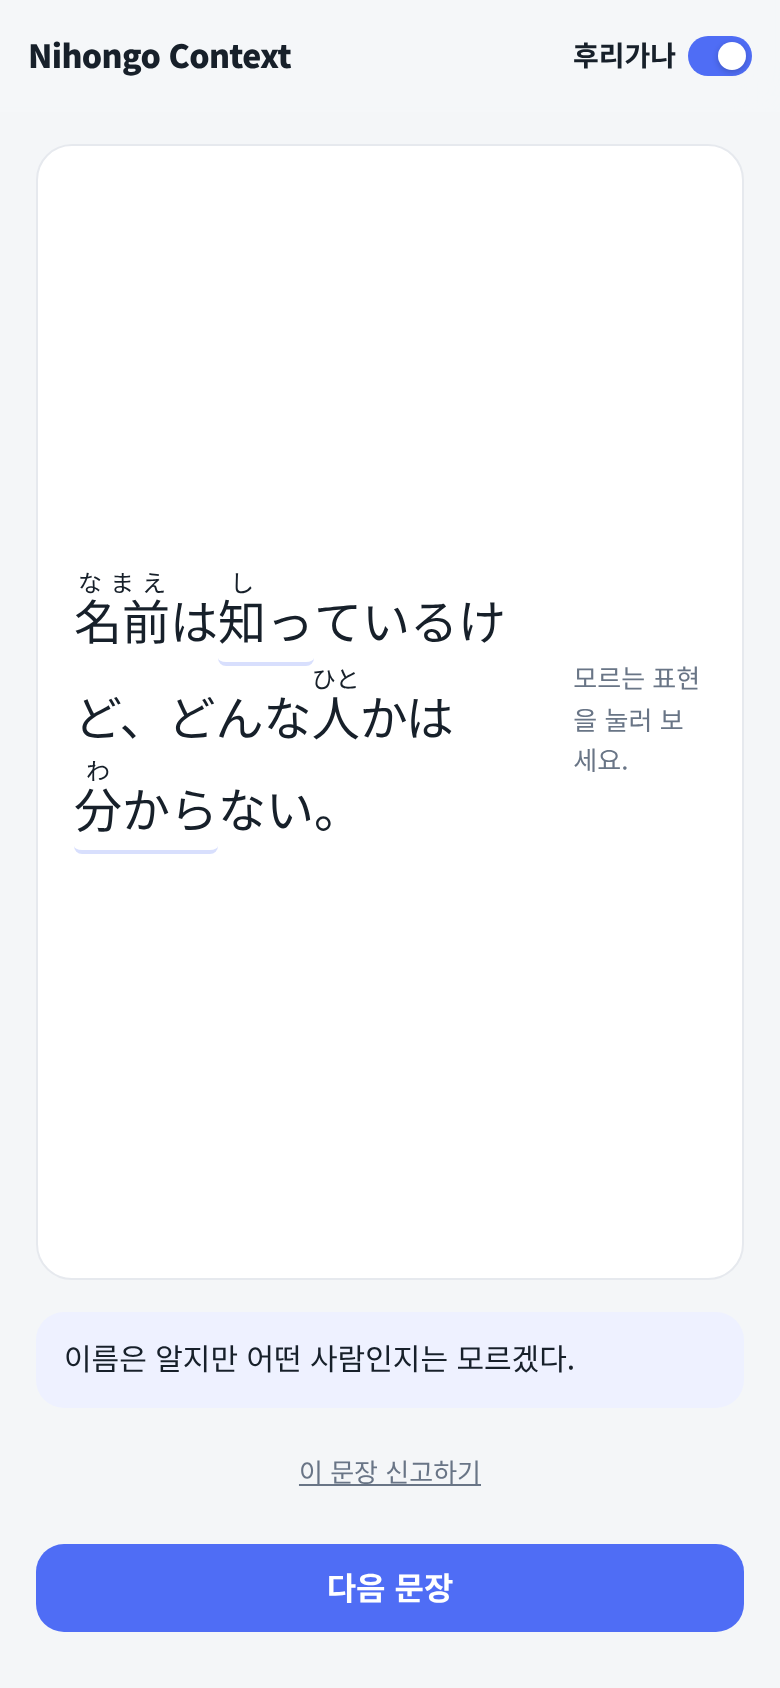
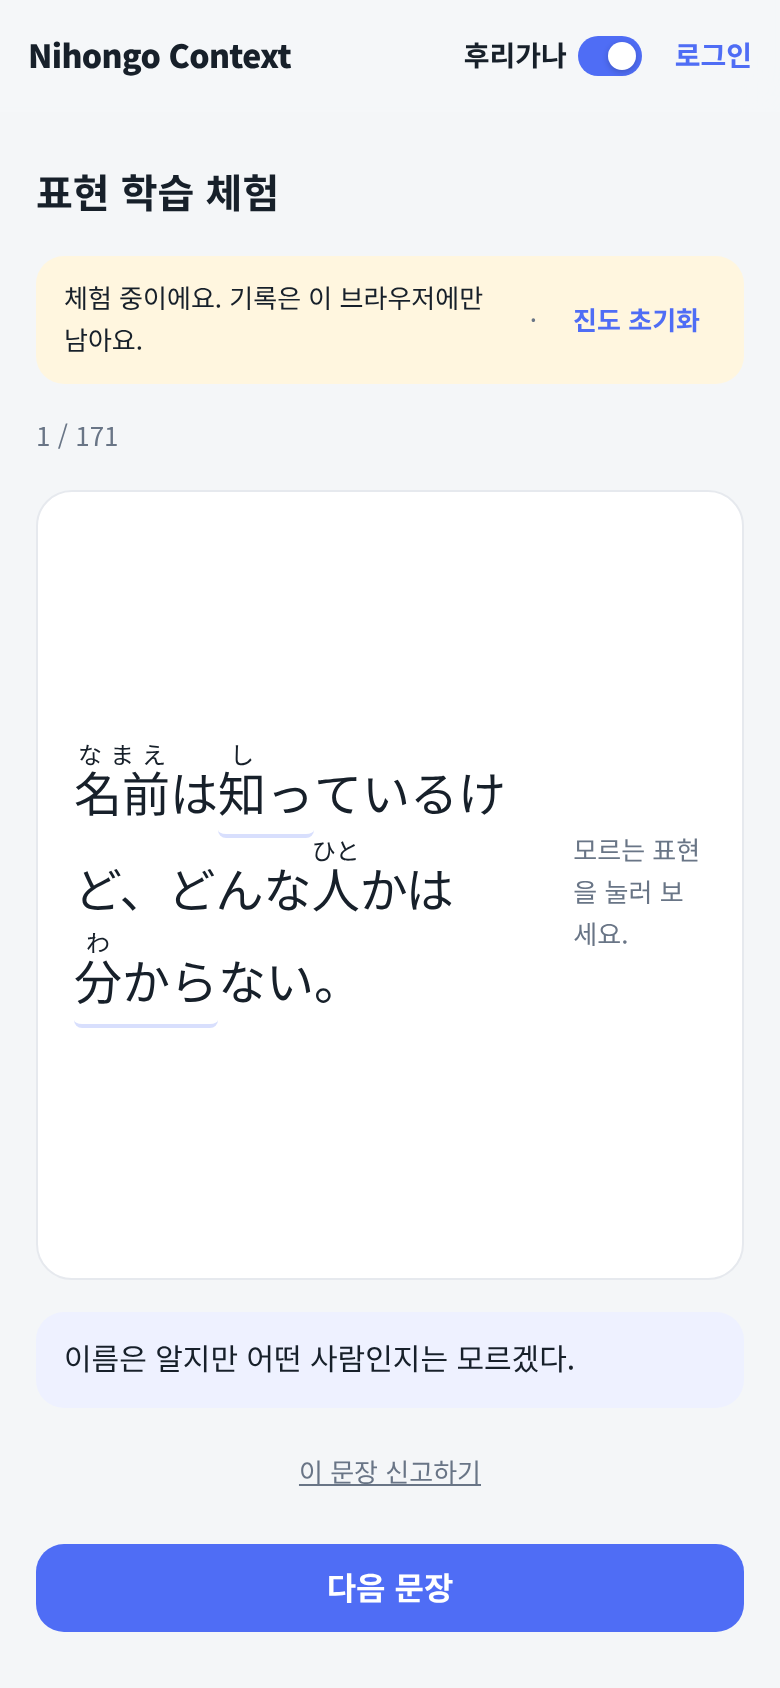
Nihongo Context page: restore original screenshots and copy, minus the word trial and owner-only wording
Claude-Session: https://claude.ai/code/session_015RcEmhiTXzsX84TqVGpdRG

diff --git a/app_nihongo.html b/app_nihongo.html
@@ -59,11 +59,11 @@
 
     <section class="detail-section" id="s1">
       <h2><span class="num">01</span><span data-lang="detail_common_a_s1">Why I built it</span></h2>
-      <p data-lang="detail_nihongo_overview">Textbook study and exam preparation did not get me closer to following everyday Japanese on YouTube. That takes recognising many words, grammar patterns and set phrases inside real sentences, and flashcards strip them out of the sentences they live in. Nihongo Context turns this around. You read a Japanese sentence with the translation hidden, tap only what you do not know, and read what that expression means in this sentence. The app then decides when the expression should come back and in which context, starting with the sentence where you first met it and moving on to sentences you have never seen. Alongside the sentences, it teaches hiragana and katakana with tables and quizzes.</p>
+      <p data-lang="detail_nihongo_overview">Textbook study and exam preparation did not get me closer to following everyday Japanese on YouTube. That takes recognising many words, grammar patterns and set phrases inside real sentences, and flashcards strip them out of the sentences they live in. Nihongo Context turns this around. You read a Japanese sentence with the translation hidden, tap only what you do not know, and read what that expression means in this sentence. The app then decides when the expression should come back and in which context, starting with the sentence where you first met it and moving on to sentences you have never seen. The same interaction also runs on 171 fixed sentences without logging in, next to hiragana and katakana practice.</p>
       <div class="findings">
         <div class="finding"><div class="k" data-lang="detail_nihongo_goal1_label">Context over cards</div><p data-lang="detail_nihongo_goal1_body">Every review shows an expression inside a sentence, and the context gets less familiar as the expression gets more familiar.</p></div>
         <div class="finding"><div class="k" data-lang="detail_nihongo_goal2_label">Never wait on a model</div><p data-lang="detail_nihongo_goal2_body">An LLM writes new sentences in the background. A tap is always answered from explanations that already exist.</p></div>
-        <div class="finding"><div class="k" data-lang="detail_nihongo_goal3_label">Nothing untrusted reaches the learner</div><p data-lang="detail_nihongo_goal3_body">Generated sentences pass deterministic checks before they are stored, and retried or duplicate answers are rejected instead of applied twice.</p></div>
+        <div class="finding"><div class="k" data-lang="detail_nihongo_goal3_label">Nothing untrusted reaches the learner</div><p data-lang="detail_nihongo_goal3_body">Generated sentences pass deterministic checks before they are stored, and stored browser state is validated before it is used.</p></div>
       </div>
     </section>
 
@@ -73,15 +73,15 @@
         <li data-lang="detail_nihongo_feature1">Sentence-first study: tap an expression to see its reading, dictionary form, core meaning, meaning in this sentence, nuance and an example, then optionally say whether you knew it.</li>
         <li data-lang="detail_nihongo_feature2">A 12-minute session that mixes review, new and exploration sentences at 70/20/10, and switches to a review-heavy mix when too many items are due.</li>
         <li data-lang="detail_nihongo_feature3">Review timing by FSRS, and review context by a ladder: the original sentence, a near-copy, then new sentences, stepping back after an explicit "didn't know".</li>
-        <li data-lang="detail_nihongo_feature4">A seed library of 200 expressions in 765 sentences, where every tappable expression ships with its explanation, so opening one never waits on a model.</li>
+        <li data-lang="detail_nihongo_feature4">A login-free mode with 171 fixed sentences covering all 200 seed expressions, using the same renderer and interaction code as the full study screen.</li>
         <li data-lang="detail_nihongo_feature5">Hiragana and katakana tables across seven ranges (263 entries) with two quiz modes, and a furigana toggle that places readings over kanji.</li>
-        <li data-lang="detail_nihongo_feature6">Study history per session and per expression, and a background worker that keeps the sentence pool topped up.</li>
+        <li data-lang="detail_nihongo_feature6">Login with Argon2id and a strict host-only session cookie, study history, and a background worker that keeps the sentence pool topped up.</li>
       </ul>
       <div class="shots">
-        <figure class="evidence" data-evidence="0"><figcaption data-lang="detail_nihongo_shot1">Tapping 知っ opens the explanation sheet: reading, dictionary form, meaning, meaning in this sentence, nuance and an example. Rating it is optional. The interface is in Korean because the app is built for Korean speakers learning Japanese.</figcaption></figure>
-        <figure class="evidence" data-evidence="1"><figcaption data-lang="detail_nihongo_shot2">Furigana on and translation revealed. The readings were computed when the sentence was saved, not when it is shown.</figcaption></figure>
-        <figure class="evidence" data-evidence="2"><figcaption data-lang="detail_nihongo_shot3">Hiragana table with seven ranges; each entry shows romaji and a Korean sound approximation.</figcaption></figure>
-        <figure class="evidence" data-evidence="3"><figcaption data-lang="detail_nihongo_shot4">Katakana loanwords: a word list with romaji and Korean meanings.</figcaption></figure>
+        <figure class="evidence" data-evidence="0"><figcaption data-lang="detail_nihongo_shot1">Home: choose between expression learning and kana practice. The interface is in Korean because the app is built for Korean speakers learning Japanese.</figcaption></figure>
+        <figure class="evidence" data-evidence="1"><figcaption data-lang="detail_nihongo_shot2">Tapping 知っ opens the explanation sheet: reading, dictionary form, meaning, meaning in this sentence, nuance and an example. Rating it is optional.</figcaption></figure>
+        <figure class="evidence" data-evidence="2"><figcaption data-lang="detail_nihongo_shot3">Furigana on and translation revealed. The readings were computed when the sentence was saved, not when it is shown.</figcaption></figure>
+        <figure class="evidence" data-evidence="3"><figcaption data-lang="detail_nihongo_shot4">Hiragana table with seven ranges; each entry shows romaji and a Korean sound approximation.</figcaption></figure>
         <figure class="evidence" data-evidence="4"><figcaption data-lang="detail_nihongo_shot5">Kana quiz, choose-the-romaji mode. Missed characters come back once at the end of the round.</figcaption></figure>
         <figure class="evidence" data-evidence="5"><figcaption data-lang="detail_nihongo_shot6">Kana quiz, read-aloud mode: reveal the answer, then mark yourself right or wrong.</figcaption></figure>
       </div>
@@ -89,9 +89,9 @@
 
     <section class="detail-section" id="s3">
       <h2><span class="num">03</span><span data-lang="detail_common_a_s3">How it works</span></h2>
-      <p data-lang="detail_nihongo_arch_body">The system has four parts with strict boundaries. The frontend is static TypeScript on Cloudflare, and kana practice runs entirely in the browser. Study goes to a FastAPI service reached through a Cloudflare Tunnel, which reads and writes learning state in PostgreSQL and picks the next sentence. It never talks to the LLM. A separate worker claims jobs from a PostgreSQL table, asks the LLM for batches of sentences with explanations, validates them, adds furigana with a morphological analyzer, and stores them. The API, the worker and PostgreSQL run in Docker Compose on one host, with the database bound to localhost.</p>
+      <p data-lang="detail_nihongo_arch_body">The system has four parts with strict boundaries. The frontend is static TypeScript on Cloudflare; the home, login-free study and kana screens run entirely on data bundled into it and make no API calls. Logged-in study goes to a FastAPI service reached through a Cloudflare Tunnel, which reads and writes learning state in PostgreSQL and picks the next sentence. It never talks to the LLM. A separate worker claims jobs from a PostgreSQL table, asks the LLM for batches of sentences with explanations, validates them, adds furigana with a morphological analyzer, and stores them. The API, the worker and PostgreSQL run in Docker Compose on one host, with the database bound to localhost.</p>
       <figure class="diagram" data-illus="nihongo.arch" role="img" aria-label="Browser, static hosting, FastAPI, PostgreSQL, worker and LLM, with the API never calling the LLM.">
-        <figcaption data-lang="detail_nihongo_fig_arch">The request path (browser, API, PostgreSQL) never waits on the LLM. Generation happens ahead of time in the worker.</figcaption>
+        <figcaption data-lang="detail_nihongo_fig_arch">The request path (browser, API, PostgreSQL) never waits on the LLM. Generation happens in the worker, and the public screens do not use the API at all.</figcaption>
       </figure>
       <div class="flow">
         <div class="step"><i>1</i><b data-lang="detail_nihongo_pipeline_step1_title">Read</b><span data-lang="detail_nihongo_pipeline_step1">The learner sees a Japanese sentence with the translation hidden. Tappable expressions already carry their explanations.</span></div>
@@ -108,9 +108,9 @@
         <div class="highlight"><b data-lang="detail_nihongo_hl1_title">Separating when from which context</b><p data-lang="detail_nihongo_hl1_body">FSRS answers when an expression is due; a context ladder (anchor, near-original, varied, new context) answers which sentence shows it. The ladder climbs after each exposure and drops one step only on an explicit "didn't know", which also schedules a context repair. Reinforcement tops exposures up to five meaningful ones without shortening FSRS intervals, and a review with no answer neither rates FSRS nor loops.</p></div>
         <div class="highlight"><b data-lang="detail_nihongo_hl2_title">LLM output treated as untrusted input</b><p data-lang="detail_nihongo_hl2_body">The model never sees database IDs, only request-local labels that the worker maps back. One strict-schema call returns sentences, translations, spans and full explanations. Thirteen deterministic checks (span bounds and overlap, surface match, length, required explanations, exact and near-duplicate detection at 0.90 similarity, unknown references) run before anything is written, and each rejection keeps a reason code.</p></div>
         <div class="highlight"><b data-lang="detail_nihongo_hl3_title">A job queue inside PostgreSQL</b><p data-lang="detail_nihongo_hl3_body">No Redis or Celery. Jobs are rows claimed with FOR UPDATE SKIP LOCKED, with a 300 s lease for crashed workers, retries with backoff, idempotency keys and a closed set of dead-letter reasons. The provider call happens outside any database transaction, and daily request and token ceilings are checked before a job is claimed, so a limit never burns retries.</p></div>
-        <div class="highlight"><b data-lang="detail_nihongo_hl4_title">Furigana at save time, not request time</b><p data-lang="detail_nihongo_hl4_body">A morphological analyzer adds about 200 MB to an image and gets common context-dependent readings wrong. It runs only in the worker when a sentence is saved: readings align to kanji runs, never cross a tappable span, prefer the reading from the item's own explanation, and fall back to a small table of context rules. The API just slices the stored ruby. On a 171-sentence set: 171 computed, 0 failures, 0 reading mismatches.</p></div>
-        <div class="highlight"><b data-lang="detail_nihongo_hl5_title">Operations built for one host</b><p data-lang="detail_nihongo_hl5_body">Migrations run only after a verified backup, and there is no downgrade path: rollback means restore. A restore drill rebuilds the database in a scratch copy, compares it with the source and exercises real reads before dropping it. The worker writes heartbeats in a separate session so a rolled-back job still proves liveness, the health endpoint flags a worker silent for 120 s, and the worker refuses to boot without its analyzer, provider key or active prompt versions.</p></div>
-        <div class="highlight"><b data-lang="detail_nihongo_hl6_title">Correct under retries and double taps</b><p data-lang="detail_nihongo_hl6_body">One piece of evidence per exposure is enforced by a unique index, so a retried self-report gets 409 and cannot run the mastery update or the FSRS step twice. A partial unique index allows one open presentation per session, FSRS rows are locked while they change, and server-issued events carry deterministic UUIDv5 idempotency keys.</p></div>
+        <div class="highlight"><b data-lang="detail_nihongo_hl4_title">Furigana at save time, not request time</b><p data-lang="detail_nihongo_hl4_body">A morphological analyzer adds about 200 MB to an image and gets common context-dependent readings wrong. It runs only in the worker when a sentence is saved: readings align to kanji runs, never cross a tappable span, prefer the reading from the item's own explanation, and fall back to a small table of context rules. The API just slices the stored ruby. On the 171 login-free sentences: 171 computed, 0 failures, 0 reading mismatches.</p></div>
+        <div class="highlight"><b data-lang="detail_nihongo_hl5_title">Login-free screens that cannot reach the API</b><p data-lang="detail_nihongo_hl5_body">The login-free mode reuses the real renderer and interaction controller, with network operations swapped for a generated fixture in the API's payload shape. Isolation is enforced three ways: a TypeScript AST import-graph test bans API modules from public screens, a build check scans the bundle, and a Playwright test runs the screens with no API. Stored progress is validated as untrusted input on load.</p></div>
+        <div class="highlight"><b data-lang="detail_nihongo_hl6_title">Correct under retries and double taps</b><p data-lang="detail_nihongo_hl6_body">One piece of evidence per exposure is enforced by a unique index, so a retried self-report gets 409 and cannot run the mastery update or the FSRS step twice. A partial unique index allows one open presentation per session, FSRS rows are locked while they change, and a boot-time audit refuses to start if any route outside a two-entry allowlist is reachable without authentication.</p></div>
       </div>
     </section>
 
@@ -119,13 +119,13 @@
       <div class="statrow">
         <div class="stat"><div class="v" data-lang="detail_nihongo_stat1_value">1,273</div><div class="l" data-lang="detail_nihongo_stat1_label">backend unit and integration tests, run against a real PostgreSQL 16</div></div>
         <div class="stat"><div class="v" data-lang="detail_nihongo_stat2_value">750</div><div class="l" data-lang="detail_nihongo_stat2_label">frontend unit tests, including import-graph and bundle checks</div></div>
-        <div class="stat"><div class="v" data-lang="detail_nihongo_stat3_value">55</div><div class="l" data-lang="detail_nihongo_stat3_label">end-to-end tests in real Chrome covering study, kana and furigana</div></div>
-        <div class="stat"><div class="v" data-lang="detail_nihongo_stat4_value">13</div><div class="l" data-lang="detail_nihongo_stat4_label">deterministic checks every generated sentence passes before it is stored</div></div>
+        <div class="stat"><div class="v" data-lang="detail_nihongo_stat3_value">55</div><div class="l" data-lang="detail_nihongo_stat3_label">end-to-end tests in real Chrome covering study, login-free mode, kana and furigana</div></div>
+        <div class="stat"><div class="v" data-lang="detail_nihongo_stat4_value">0</div><div class="l" data-lang="detail_nihongo_stat4_label">API calls from the login-free screens, checked on the live site</div></div>
       </div>
       <ul>
         <li data-lang="detail_nihongo_quality1">mypy in strict mode and ruff report no issues across 176 Python files, and the frontend type-checks with tsc --noEmit.</li>
         <li data-lang="detail_nihongo_quality2">Architecture rules are tests: 14 import and write guards keep the LLM SDK out of the API process, FSRS writes inside the scheduling module, and commits inside allowlisted functions.</li>
-        <li data-lang="detail_nihongo_quality3">Time is injected everywhere, so scheduling, deferral and lease rules are tested deterministically instead of against the wall clock.</li>
+        <li data-lang="detail_nihongo_quality3">Operations are rehearsed: migrations run only after a verified backup, and a restore check rebuilds the database in a scratch copy and exercises login and history before dropping it.</li>
       </ul>
     </section>
 
@@ -133,13 +133,13 @@
       <h2><span class="num">06</span><span data-lang="detail_common_a_s6">Decisions &amp; trade-offs</span></h2>
       <ul>
         <li data-lang="detail_nihongo_design_item1">PostgreSQL as the job queue instead of Redis. One host means one datastore to back up; SKIP LOCKED and leases give enough concurrency for one worker pool, at the cost of polling.</li>
-        <li data-lang="detail_nihongo_design_item2">No UI framework on the frontend. Plain DOM with textContent only keeps the bundle small, and made it possible to enforce module boundaries with an import-graph test.</li>
+        <li data-lang="detail_nihongo_design_item2">No UI framework on the frontend. Plain DOM with textContent only keeps the bundle small, and made it possible to prove with an import-graph test which screens can reach the API.</li>
         <li data-lang="detail_nihongo_design_item3">No corrections to self-reports. Undoing a mastery or FSRS step needs history that is not stored, so a second answer is rejected rather than half-applied.</li>
         <li data-lang="detail_nihongo_design_item4">Explanations generated together with each sentence, not on tap. Batches spend more tokens up front, but a tap never waits on a model and every explanation is validated before a learner sees it.</li>
       </ul>
       <div class="takeaway">
         <b data-lang="detail_common_a_retro">Looking back</b>
-        <span data-lang="detail_nihongo_takeaway">The product idea is simple; the work was in the boundaries. Deciding that the model never sits in a request, that its output is validated like user input, and that every rule about which code may touch what is a test, is what let a learning engine, an LLM pipeline and a static frontend live in one codebase without stepping on each other.</span>
+        <span data-lang="detail_nihongo_takeaway">The product idea is simple; the work was in the boundaries. Deciding that the model never sits in a request, that its output is validated like user input, and that every rule about which code may touch what is a test, is what let a learning engine, an LLM pipeline and a login-free mode live in one codebase without stepping on each other.</span>
       </div>
     </section>
 

diff --git a/assets/js/scenes/nihongo.js b/assets/js/scenes/nihongo.js
@@ -51,7 +51,7 @@
     I.isoPhone(s, p(0, 10, 0), { w: 38 * k, d: 58 * k, h: 5 * k });
     var phoneTop = p(19, 39, 5);
 
-    /* ---- plain request path: browser -> API -------------------------------- */
+    /* ---- plain request path: browser -> API (logged-in study only) ------ */
     var ph = p(38, 36, 8), ap = p(66, 30, SH + 10);
     I.arrow(s, ph[0] + 2 * k, ph[1], ap[0] - 2 * k, ap[1], { color: t.slate, width: 1.2 });
 
@@ -71,7 +71,7 @@
     if (!hero) return;
 
     I.leader(s, phoneTop[0] - 30 * k, phoneTop[1] - 50 * k, phoneTop[0], phoneTop[1] - 2,
-      'browser · static TypeScript frontend', { anchor: 'end' });
+      'browser · login-free screens need no server', { anchor: 'end' });
     var mid = [(wkTop[0] + llmFoot[0]) / 2, (wkTop[1] + llmFoot[1]) / 2 - 3 * k];
     I.leader(s, mid[0] - 50 * k, mid[1] - 34 * k, mid[0] - 2, mid[1],
       'sentences generated ahead of time', { anchor: 'end', accent: true });
@@ -85,17 +85,17 @@
 
   function hero(s, ctx) { stage(s, ctx); }
   hero.kind = 'hero';
-  hero.aria = 'Isometric view of Nihongo Context: a browser talks to the API for study, while a background worker asks an LLM for new study sentences ahead of time and stores them, with their review schedule and furigana, in PostgreSQL.';
+  hero.aria = 'Isometric view of Nihongo Context: a browser uses the API only for logged-in study, while a background worker asks an LLM for new study sentences ahead of time and stores them, with their review schedule and furigana, in PostgreSQL.';
 
   /* ---------------------------------------------------------- s3: arch */
   function arch(s, ctx) {
     var t = ctx.tokens;
 
-    I.box(s, 24, 40, 176, 62, { label: 'browser', sub: 'static TypeScript' });
+    I.box(s, 24, 40, 176, 62, { label: 'browser', sub: 'login-free: 0 API calls' });
     I.arrow(s, 112, 102, 112, 150, { both: true, label: 'HTML / JS', labelDx: 8, labelAnchor: 'start', labelDy: 4 });
     I.box(s, 24, 150, 176, 52, { label: 'static hosting', sub: 'Cloudflare' });
 
-    I.arrow(s, 200, 71, 272, 71, { dashed: true, label: 'study API', labelDy: -8, size: 9.5 });
+    I.arrow(s, 200, 71, 272, 71, { dashed: true, label: 'study only', labelDy: -8, size: 9.5 });
     I.box(s, 272, 40, 156, 62, { label: 'FastAPI', sub: 'auth · selection · events' });
     I.arrow(s, 350, 102, 350, 150, { both: true });
     I.box(s, 272, 150, 156, 62, { label: 'PostgreSQL 16', sub: '20 tables · job queue' });
@@ -117,7 +117,7 @@
   }
   arch.kind = 'diagram';
   arch.height = 310;
-  arch.aria = 'The browser loads static files from Cloudflare and uses the FastAPI service for study; the API reads and writes PostgreSQL. A worker claims jobs from PostgreSQL with SKIP LOCKED, calls the LLM for structured JSON, and runs 13 checks before writing to the ready pool. A crossed dashed line marks that the API never calls the LLM.';
+  arch.aria = 'The browser loads static files from Cloudflare and uses the FastAPI service only for logged-in study; the API reads and writes PostgreSQL. A worker claims jobs from PostgreSQL with SKIP LOCKED, calls the LLM for structured JSON, and runs 13 checks before writing to the ready pool. A crossed dashed line marks that the API never calls the LLM.';
 
   I.scenes.nihongo = { thumb: thumb, hero: hero, arch: arch };
 })();

diff --git a/assets/js/works-data.js b/assets/js/works-data.js
@@ -296,14 +296,14 @@ window.WORKS = [
     keyfact: "2,078 tests · 13 checks per generated sentence",
     results: null,
     evidence: [
+      { src: "assets/img/nihongo-home.png", webp: "assets/img/nihongo-home.webp", width: 780, height: 1688, frame: "phone", zoom: true,
+        alt: "Home screen with two cards: try expression learning, or learn kana first", captionKey: "detail_nihongo_shot1" },
       { src: "assets/img/nihongo-sheet.png", webp: "assets/img/nihongo-sheet.webp", width: 780, height: 1688, frame: "phone", zoom: true,
-        alt: "Explanation sheet for the tapped expression with reading, meaning, meaning in context, nuance and an example", captionKey: "detail_nihongo_shot1" },
+        alt: "Explanation sheet for the tapped expression with reading, meaning, meaning in context, nuance and an example", captionKey: "detail_nihongo_shot2" },
       { src: "assets/img/nihongo-furigana.png", webp: "assets/img/nihongo-furigana.webp", width: 780, height: 1688, frame: "phone", zoom: true,
-        alt: "Study sentence with furigana readings above the kanji and the Korean translation revealed", captionKey: "detail_nihongo_shot2" },
+        alt: "Sentence with furigana readings above the kanji and the Korean translation revealed", captionKey: "detail_nihongo_shot3" },
       { src: "assets/img/nihongo-kana.png", webp: "assets/img/nihongo-kana.webp", width: 780, height: 1688, frame: "phone", zoom: true,
-        alt: "Hiragana table with range chips and romaji under each character", captionKey: "detail_nihongo_shot3" },
-      { src: "assets/img/nihongo-loanwords.png", webp: "assets/img/nihongo-loanwords.webp", width: 780, height: 1688, frame: "phone", zoom: true,
-        alt: "Katakana loanword list with romaji and Korean meanings", captionKey: "detail_nihongo_shot4" },
+        alt: "Hiragana table with range chips and romaji under each character", captionKey: "detail_nihongo_shot4" },
       { src: "assets/img/nihongo-quiz-choose.png", webp: "assets/img/nihongo-quiz-choose.webp", width: 780, height: 1688, frame: "phone", zoom: true,
         alt: "Kana quiz asking for the romaji of a character from four choices", captionKey: "detail_nihongo_shot5" },
       { src: "assets/img/nihongo-quiz-read.png", webp: "assets/img/nihongo-quiz-read.webp", width: 780, height: 1688, frame: "phone", zoom: true,
